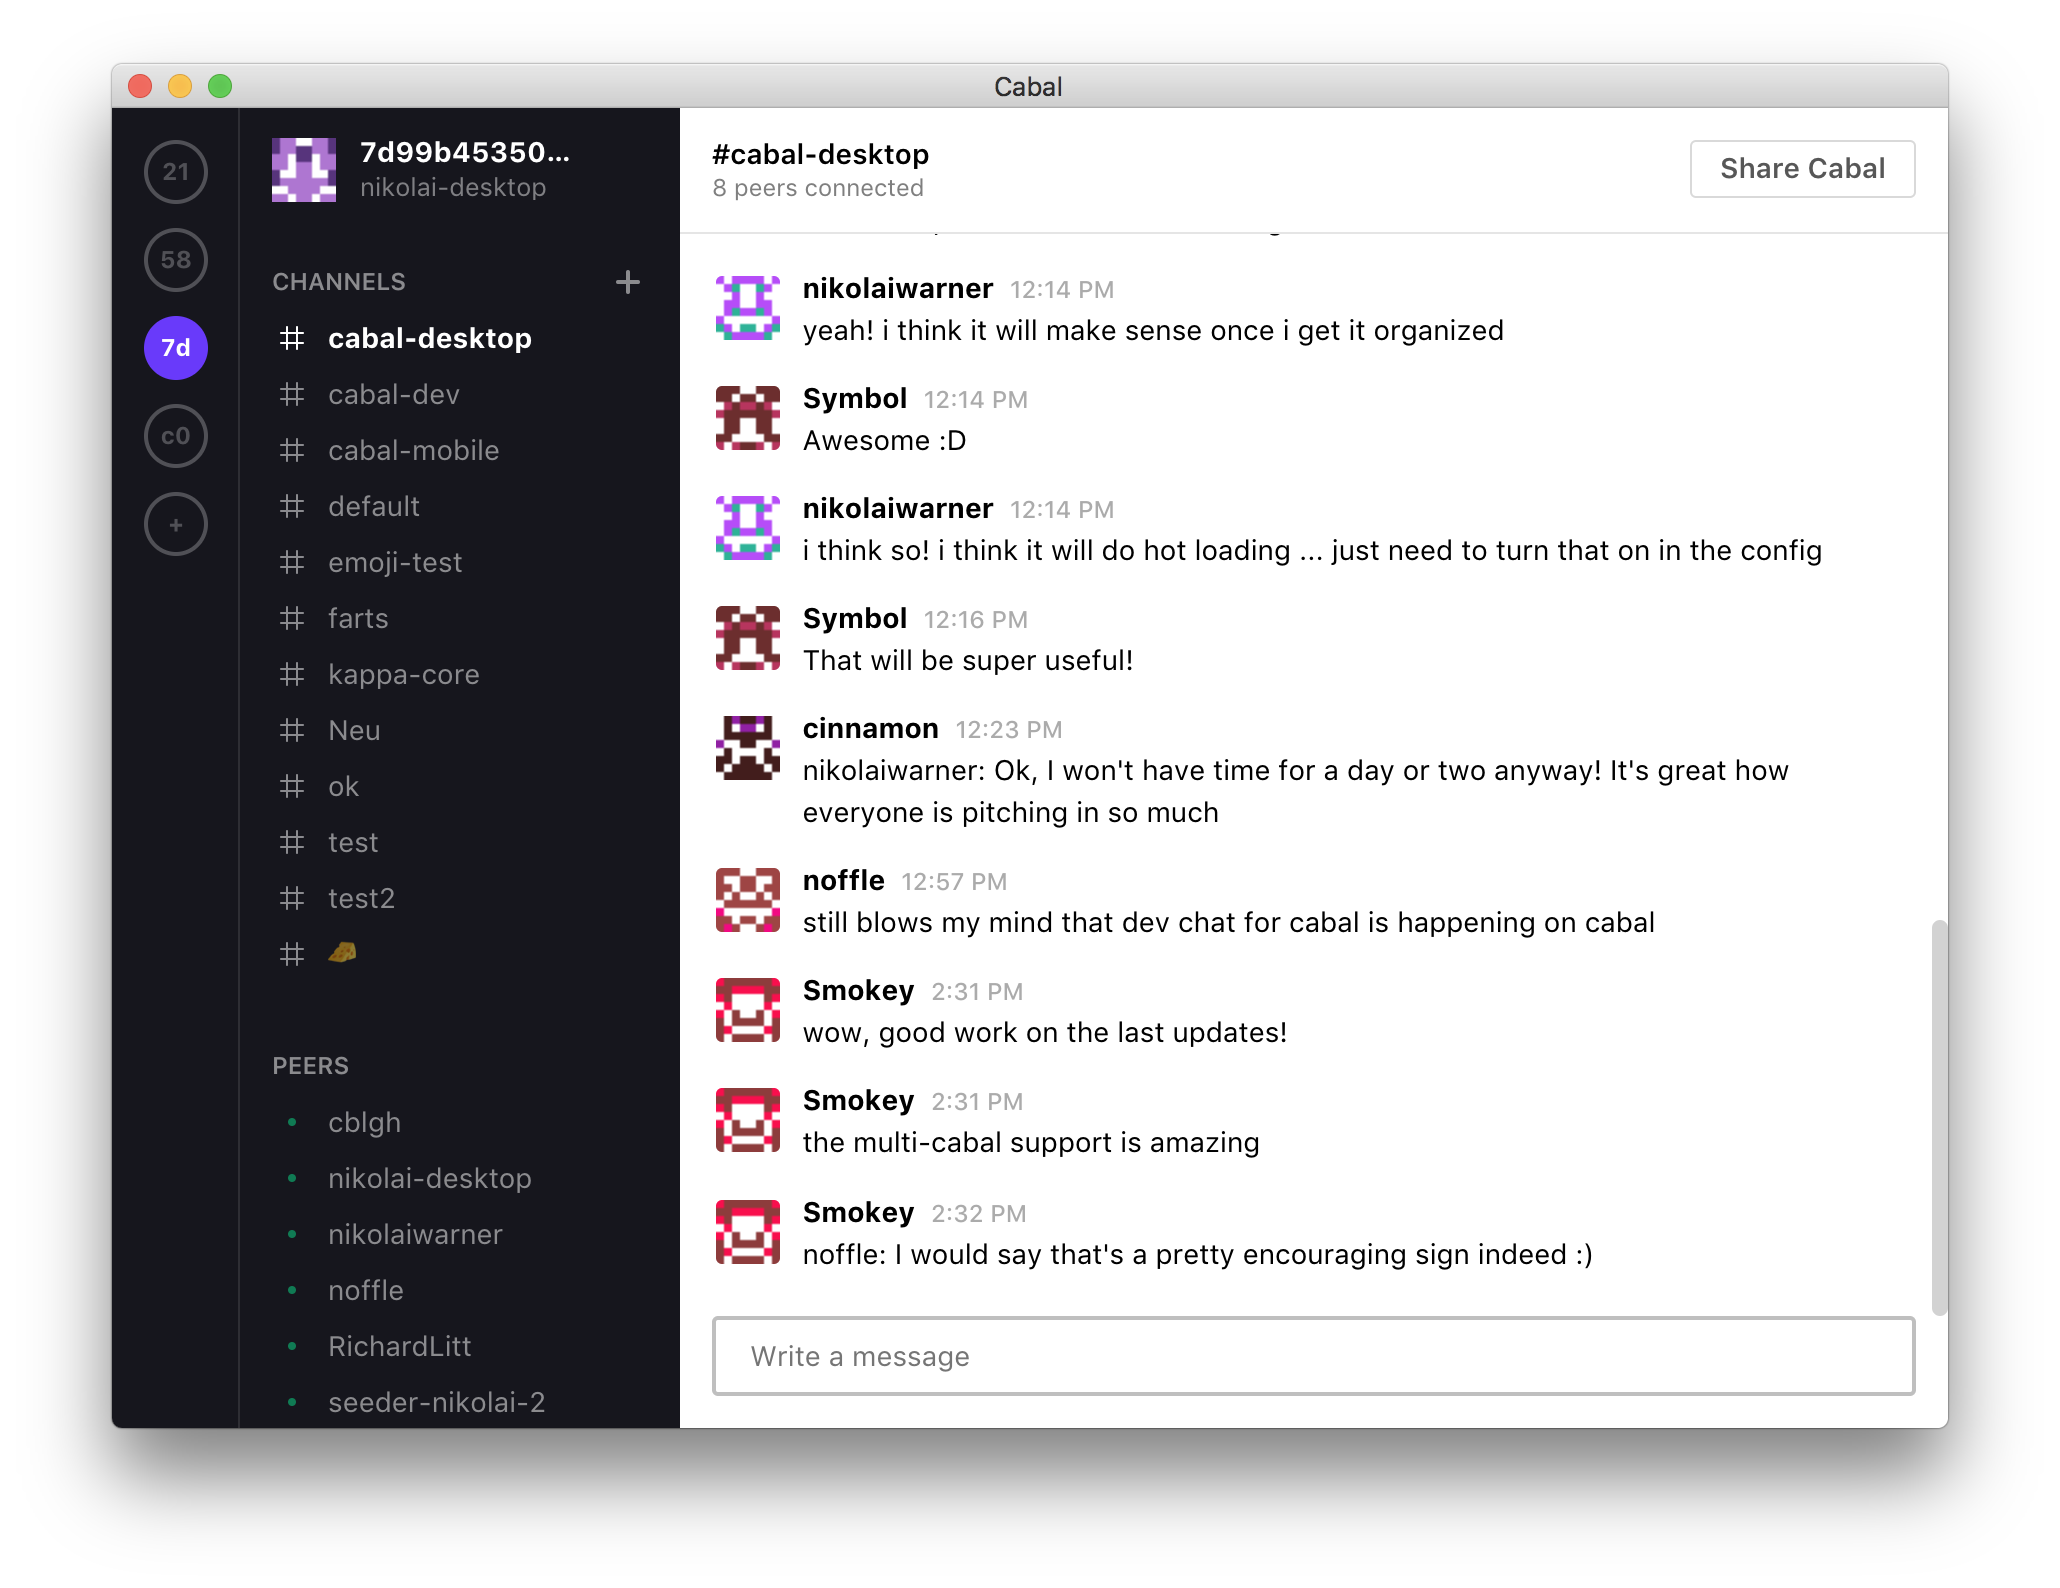
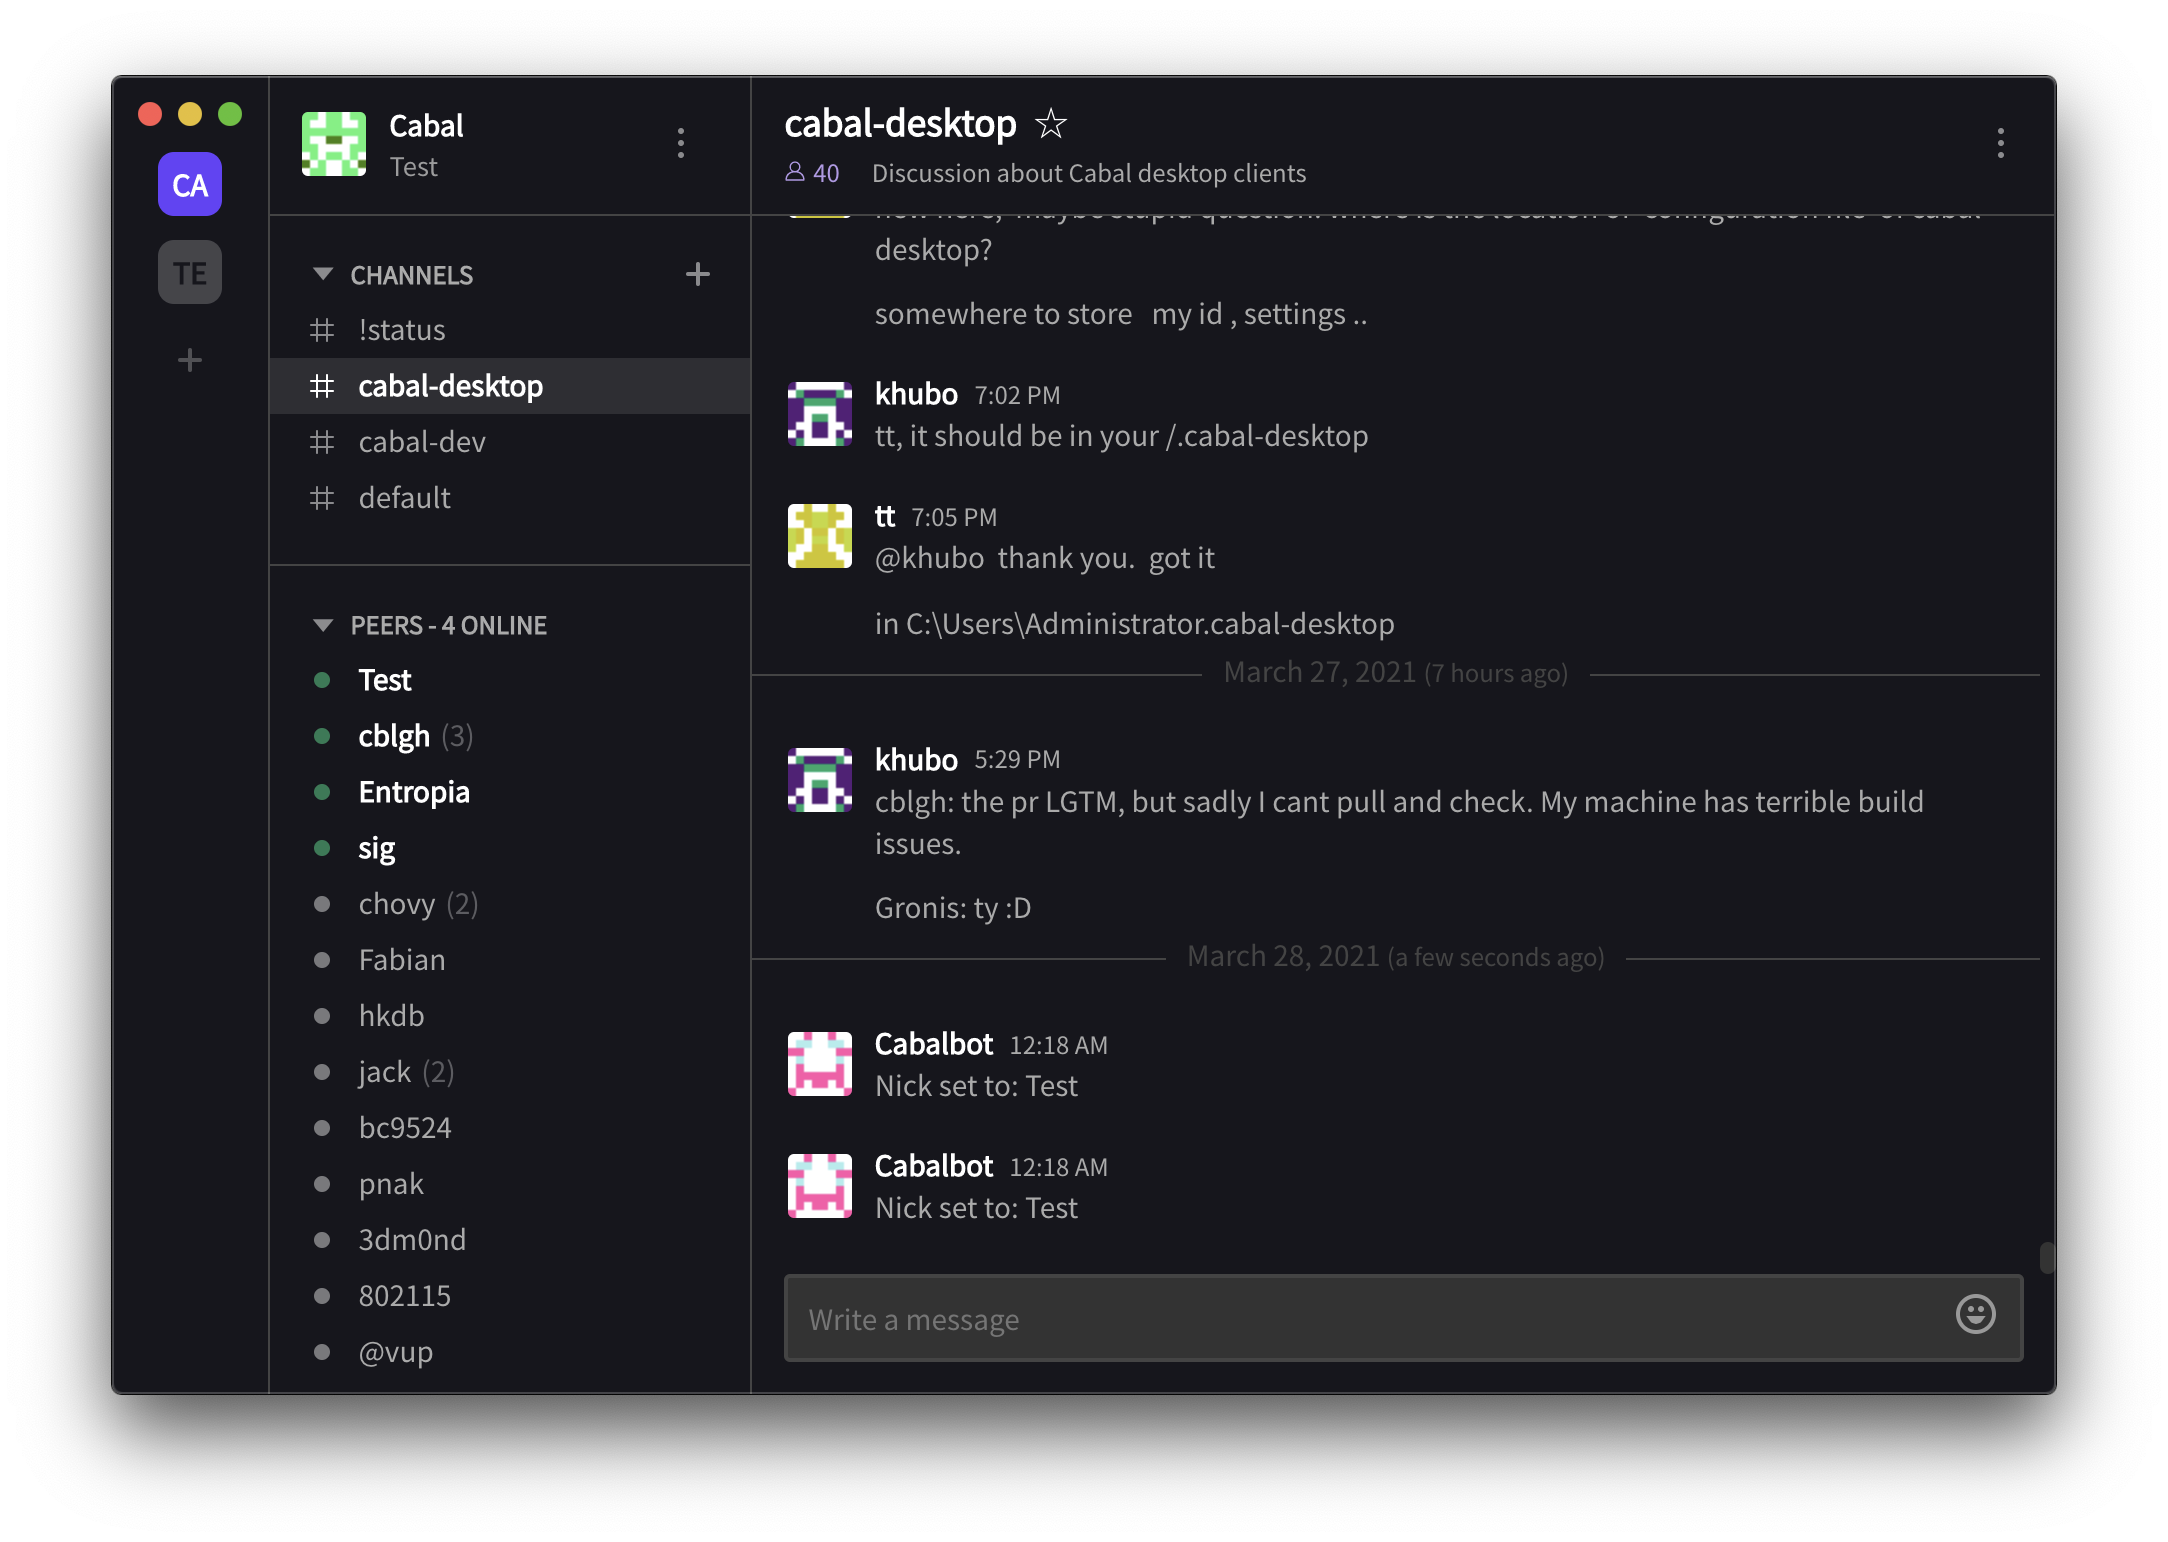
Use frameless window on MacOS.

diff --git a/index.js b/index.js
@@ -7,6 +7,7 @@ const os = require('os')
 const path = require('path')
 const settings = require('./app/settings')
 const AutoUpdater = require('./app/updater')
+const platform = require('./app/platform')
 
 const updater = new AutoUpdater()
 
@@ -86,7 +87,7 @@ const template = [
   }
 ]
 
-if (process.platform === 'darwin') {
+if (platform.mac) {
   template.unshift({
     label: 'Cabal',
     submenu: [
@@ -141,7 +142,7 @@ app.on('ready', () => {
     defaultHeight: 600
   })
 
-  win = new BrowserWindow({
+  let windowOptions = {
     backgroundColor: '#1e1e1e',
     x: mainWindowState.x,
     y: mainWindowState.y,
@@ -152,7 +153,13 @@ app.on('ready', () => {
     webPreferences: {
       nodeIntegration: true
     }
-  })
+  }
+
+  if(platform.mac){
+    windowOptions.titleBarStyle = 'hiddenInset';
+  }
+
+  win = new BrowserWindow(windowOptions)
   mainWindowState.manage(win)
 
   win.loadURL('file://' + path.join(__dirname, 'index.html'))
@@ -170,7 +177,7 @@ app.on('ready', () => {
   })
 
   ipcMain.on('update-badge', (event, { badgeCount, showCount }) => {
-    if (os.platform() === 'darwin') {
+    if (platform.mac) {
       const badge = showCount ? badgeCount : '•'
       app.dock.setBadge(badgeCount > 0 ? ('' + badge) : '')
     } else {
@@ -183,7 +190,7 @@ app.on('ready', () => {
       event.preventDefault()
       win.hide()
     }
-    if (os.platform() !== 'darwin') {
+    if (!platform.mac) {
       app.quit()
     }
   })
@@ -194,7 +201,7 @@ app.on('ready', () => {
 })
 
 app.on('window-all-closed', () => {
-  if (os.platform() !== 'darwin') {
+  if (!platform.mac) {
     app.quit()
   }
 })

diff --git a/app/containers/cabalsList.js b/app/containers/cabalsList.js
@@ -1,5 +1,6 @@
 import React from 'react'
 import { connect } from 'react-redux'
+import platform from '../platform'
 
 import { viewCabal, changeScreen } from '../actions'
 
@@ -38,8 +39,12 @@ class CabalsListScreen extends React.Component {
     var { addr, cabals, settings } = this.props
     cabals = cabals || {}
     var cabalKeys = (Object.keys(cabals) || []).sort()
+    var className = [
+      'client__cabals', 
+      ...(platform.mac? ['client__cabals__mac'] : [])
+    ].join(' ')
     return (
-      <div className='client__cabals'>
+      <div className={className}>
         <div className='switcher'>
           {cabalKeys.map(function (key) {
             var cabal = cabals[key]

diff --git a/app/platform.js b/app/platform.js
@@ -1,0 +1,14 @@
+function isMac () {
+    if (typeof window === 'undefined'){
+        const process = require('process')
+        return process.platform === 'darwin'
+    } else {
+        return window.navigator.platform.toLowerCase().indexOf('mac') >= 0
+    }
+}
+
+var platform = {
+    mac: isMac()
+}
+
+module.exports = platform

diff --git a/app/styles/style.scss b/app/styles/style.scss
@@ -189,7 +189,14 @@ form {
   height: 100%;
   justify-content: space-between;
   overflow-y: auto;
-  padding: 1rem;
+  padding: 1.0rem;
+}
+
+/* Specific layout for frameless window (MacOS) */
+.client__cabals__mac {
+  flex: 0 0 4.95rem;
+  padding: 1.45rem;
+  padding-top: 2.4rem;
 }
 
 .client__cabals.hidden {
